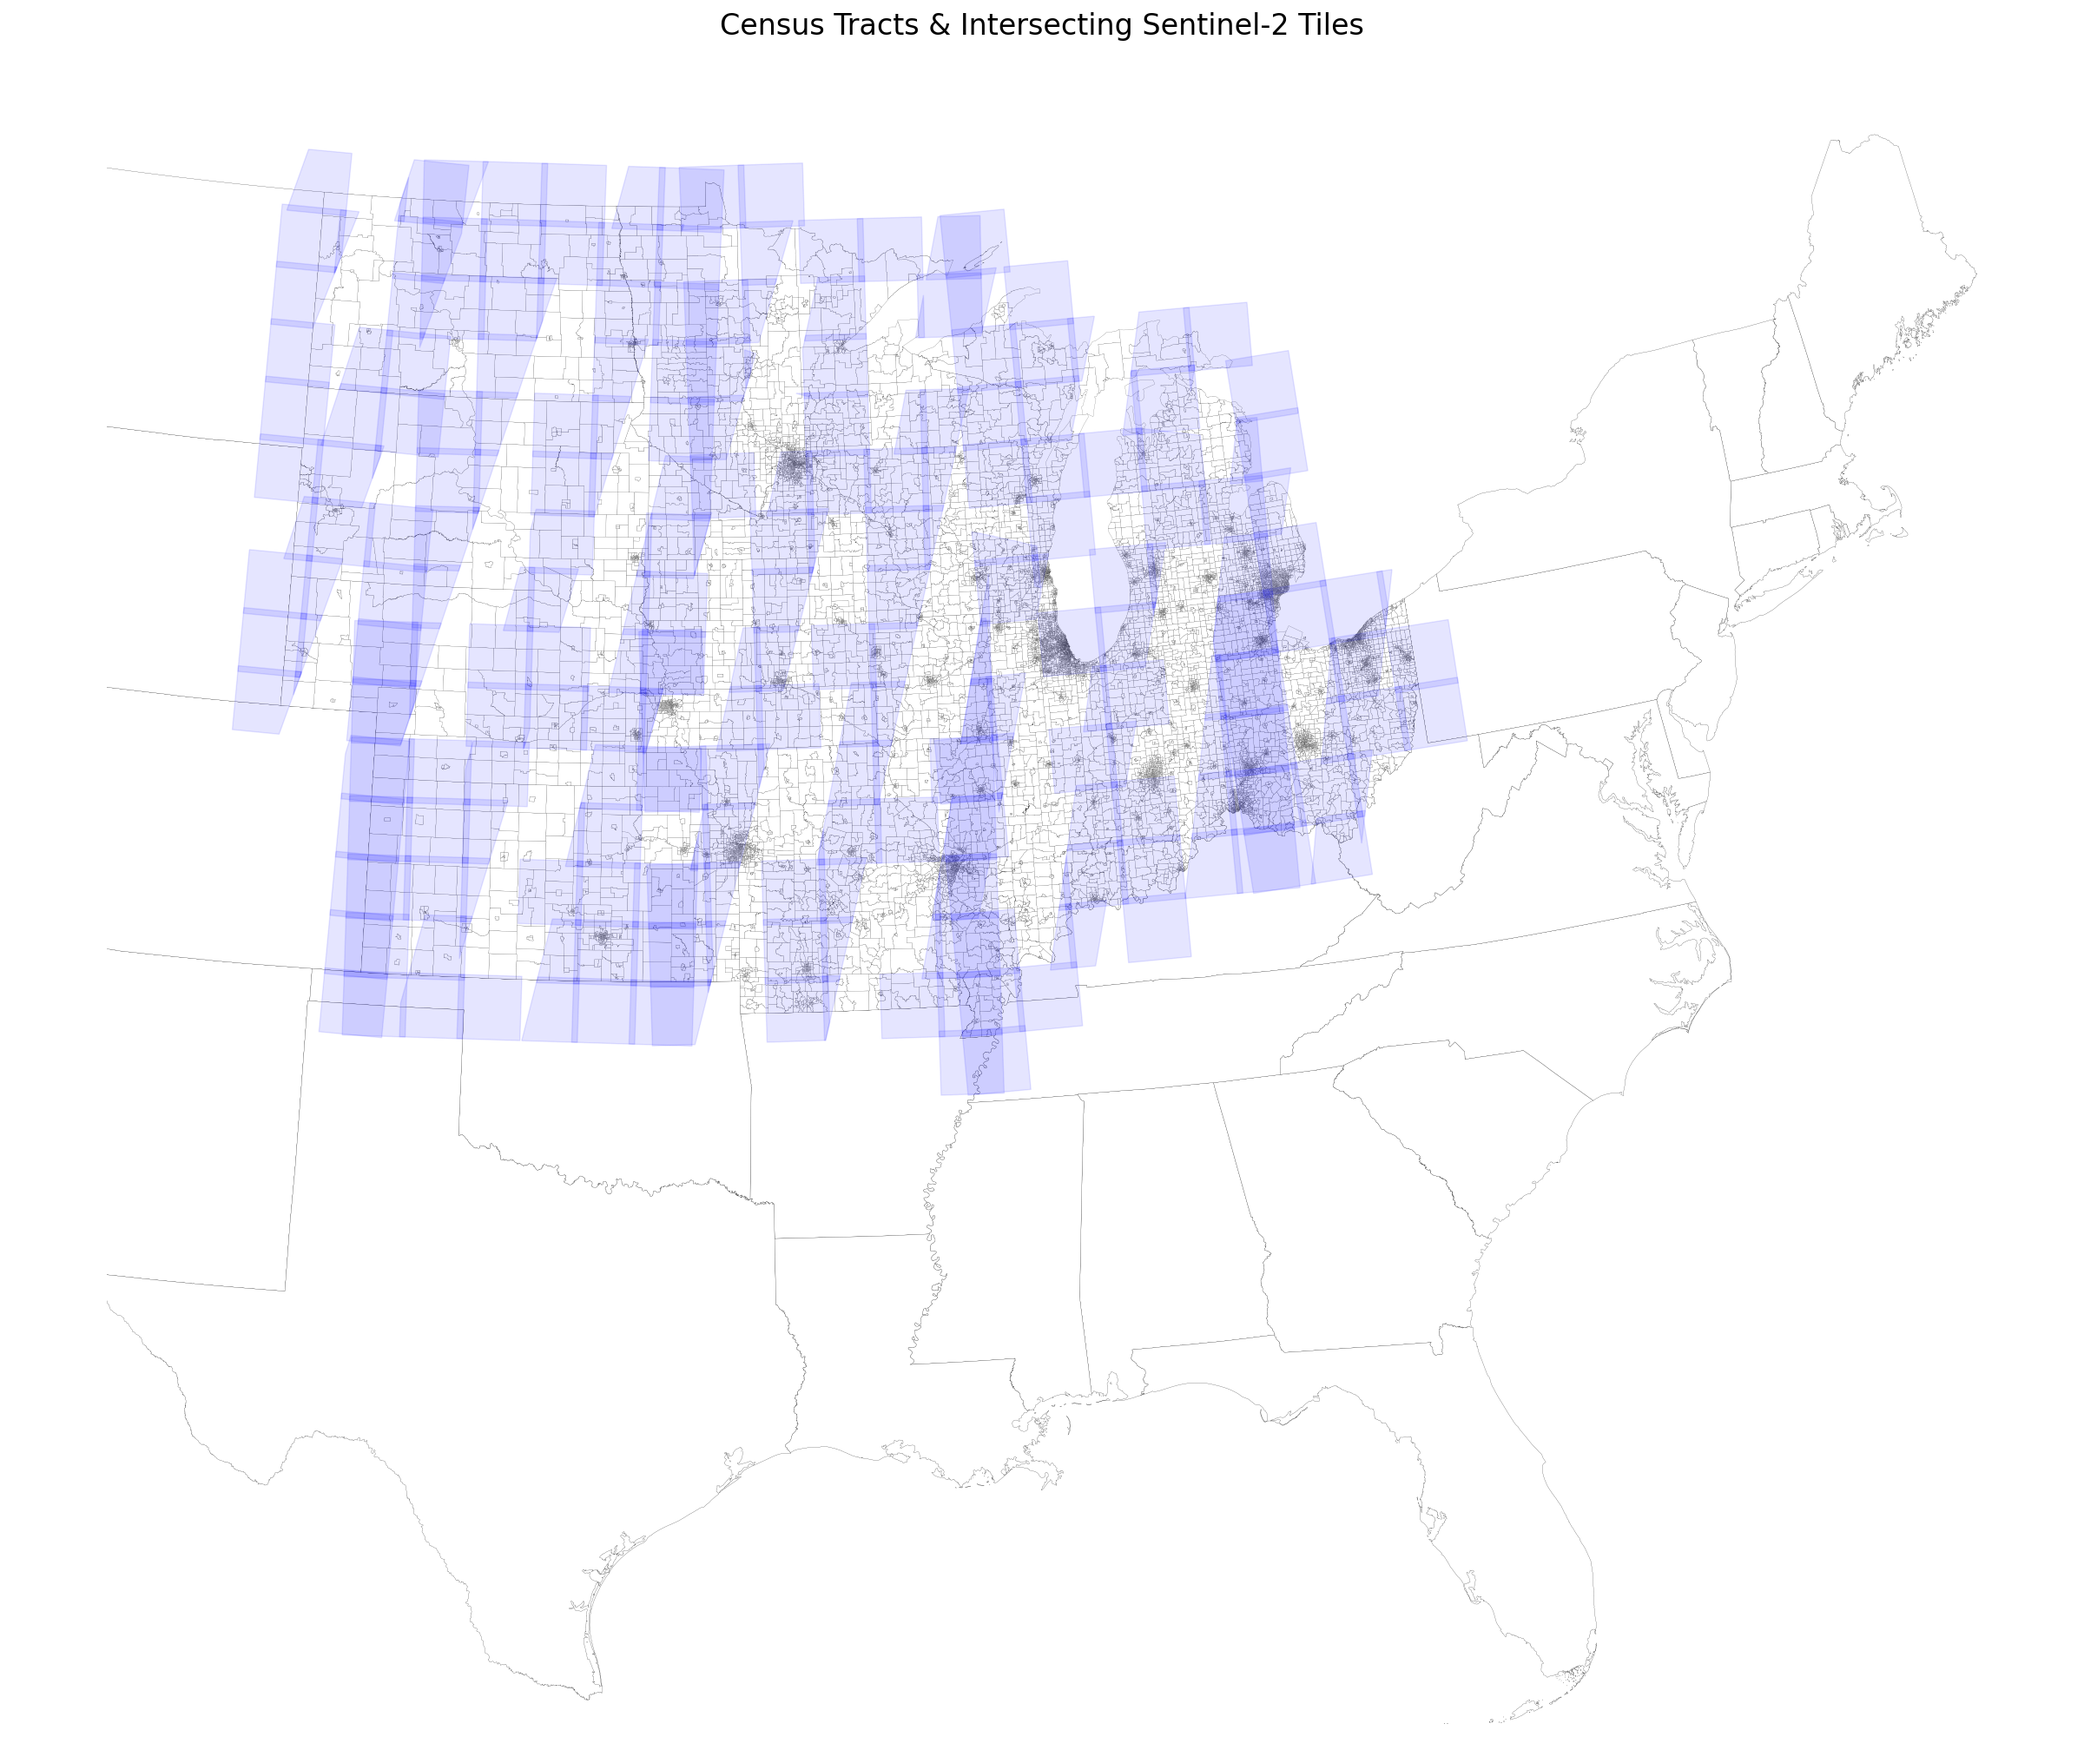
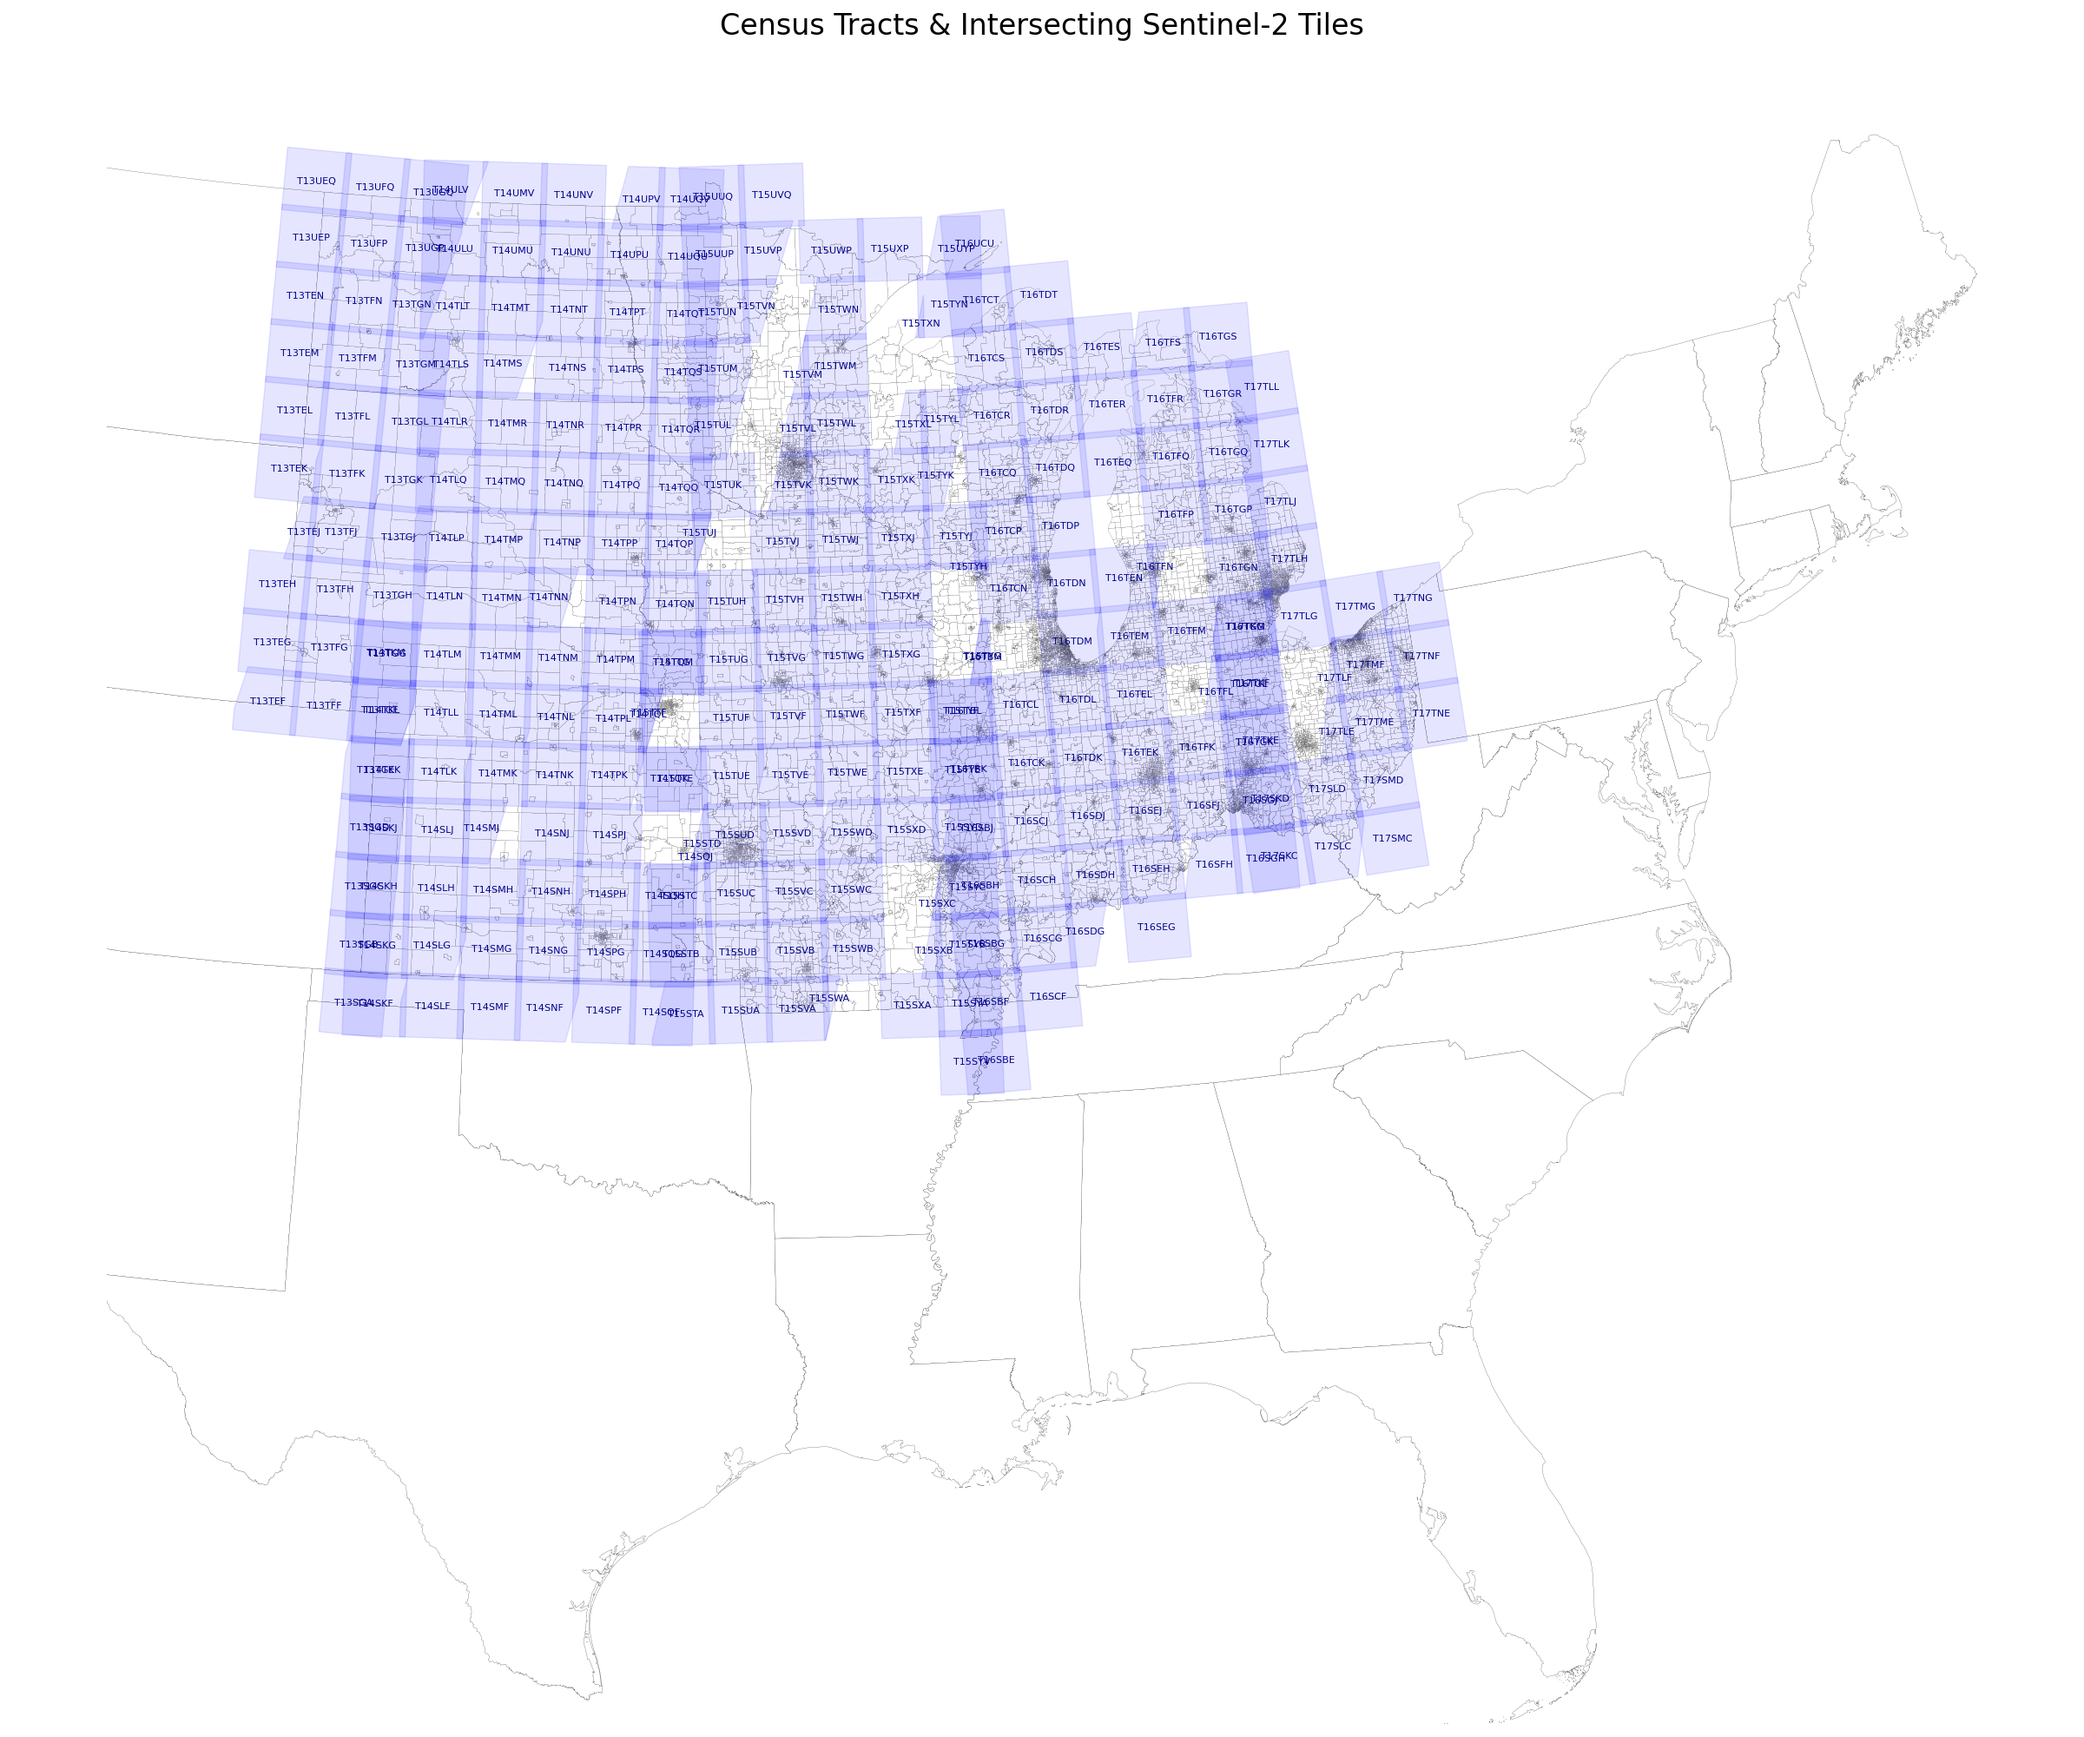
updated figure

diff --git a/README.md b/README.md
@@ -12,4 +12,4 @@ Preprocessing of Sentinel-2 images and extraction of visual features for health-
 
 * `rasterize_polygons.py`: Rasterizes/burns geometries outputted by `merge_polygons.py`. Census tract polygons are burned to raster images matching the 10-meter resolution of Sentinel-2 products. Temporal coverage of the Sentinel-2 products in our area-of-interest results in multiple Sentinel-2 images per MGRS tile. To avoid unnecessary overhead, a single raster is computed for each individual MGRS tile instead of individual S2 products. Pixel values inside each tract polygon are set to 'Data_Value', the diabetes crude prevalence value (estimated percentage over 1000 people) in `../shapes/filtered_diabetes.csv`.
 
-* `create_chips.py`: Creates input-label chip pairs using Sentinel-2 images and rasterized census tract polygons created by `rasterize_polygons.py`. Output chip size is 224x224.
+* `create_chips.py`: Creates input-label chip pairs using Sentinel-2 images and rasterized census tract polygons created by `rasterize_polygons.py`. Output chip size is 256x256.
